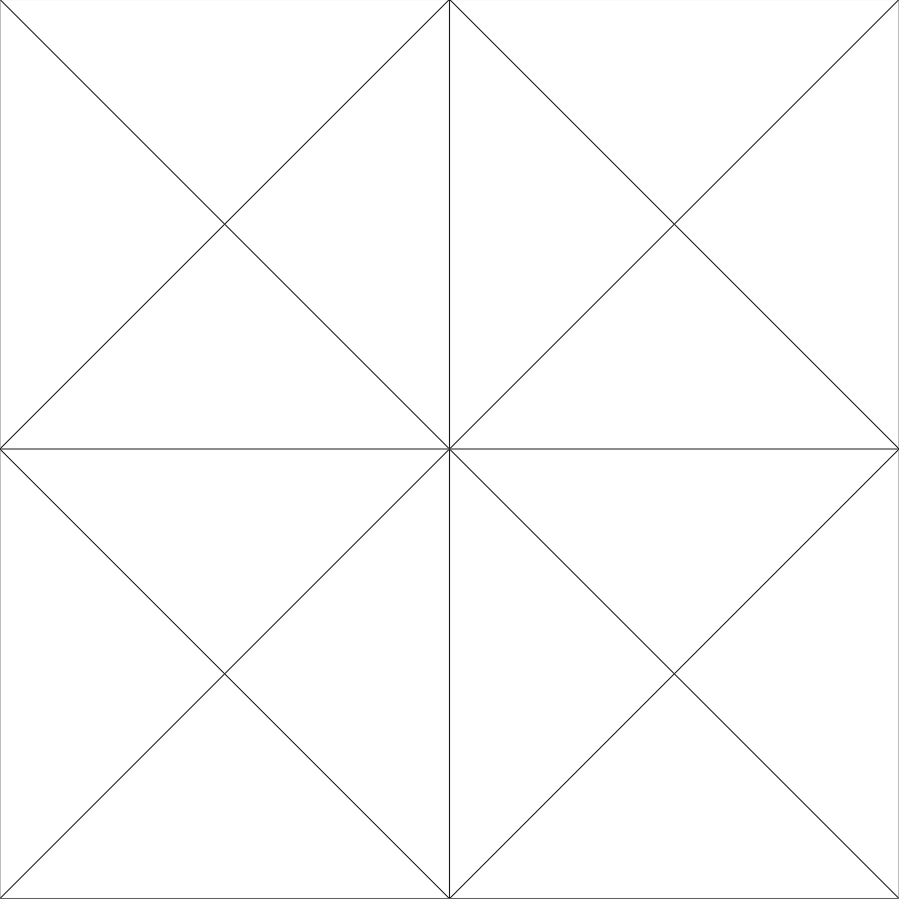
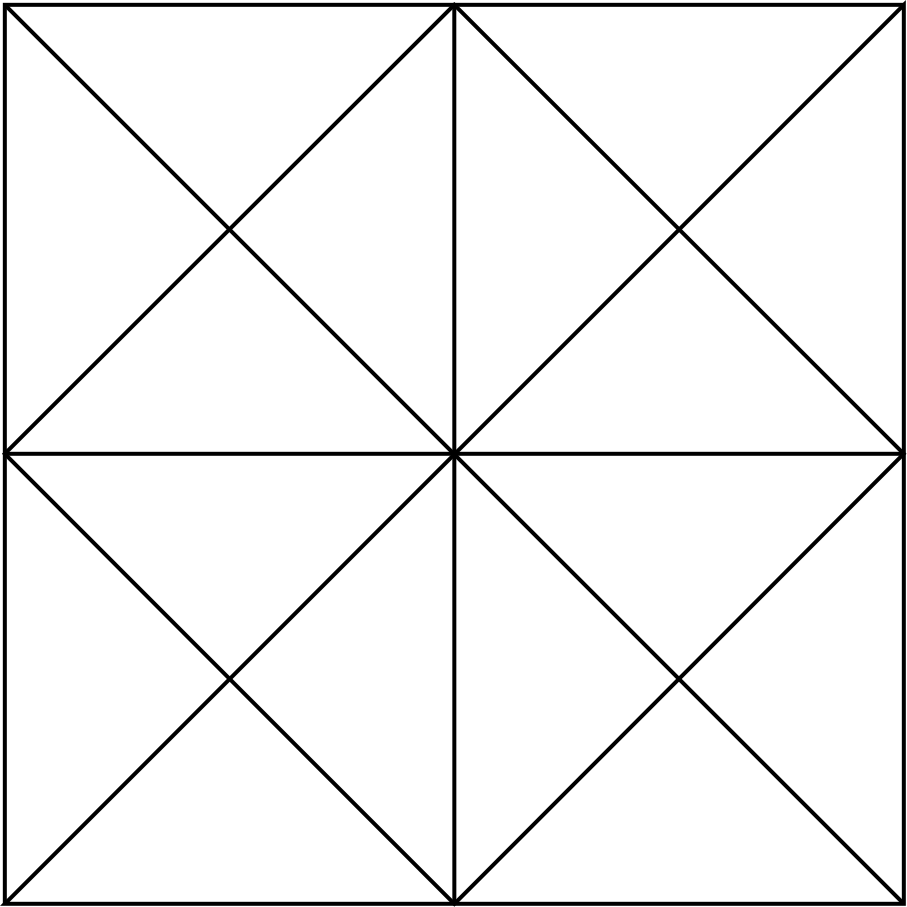
ch6 fig changes

diff --git a/chapters/6-Experiments-Evaluation.tex b/chapters/6-Experiments-Evaluation.tex
@@ -152,9 +152,7 @@ It is therefore our intuition that the trend of the ratio of faces to points app
 %
 \pagebreak
 \section{Acquired \tdd{}}
-Each of the three acquired \tdd{} examples used in our experiments, the partial model of the University of Heidelberg seal, the flat surface from ILATO, and the Stanford Bunny, were initially processed using the GigaMesh framework in order to generate function values using the Multi-Scale Integral Invariants filter, MSII~\cite{Mara12}.
-
-
+Each of the three acquired \tdd{} examples used in our experiments, the partial model of the University of Heidelberg seal, the flat surface from ILATO, and the Stanford Bunny, were initially processed with the GigaMesh framework in order to generate a scalar field of function values using the Multi-Scale Integral Invariants filter, MSII~\cite{Mara12}. Also, we experience two kinds of difficulties, error propagation and diminishing effectiveness when convolving the filter, highlighting the complexity of working with acquired \tdd{}.
 
 %
 %
@@ -167,7 +165,9 @@ Figure~\ref{fig:unisiegel} shows three views of the partial model taken from the
 
 \input{figures/latex/unisiegel.tex}
 
-There exist several holes in this \tdd{}, including the large hold in the lap of the figure, just below the center of each image. As \fors{t} convolves over every point, considering each neighborhood in isolation, the convexity of the entire mesh is inconsequential, and faces adjacent to holes are treated the same as faces adjacent to borders. Also notice the black area\ldots
+There exist several holes in this \tdd{}, including the relativly large hole in the lap of the figure, just below the center of each image. However, as \fors{t} convolves over every point, considering each neighborhood in isolation, the convexity of the entire mesh is inconsequential, and faces adjacent to holes are treated the same as faces adjacent to borders, where \wmfv{s} are averaged over the sectors of the geodesic disc which do exist.
+
+Also notice the large black area in the top left corner of (c). Due to one of the many non-manifold, irregularities of the original mesh, an error occurred when the filter attempted to divide a function value by zero-sized area, and that error then propagated to every adjacent neighborhood in every subsequent iteration. Using the "Automatic Mesh Polishing" feature in GigaMesh~\cite[p.~29-32]{Mara12}~\cite[p.7]{Giga17} before convolving the filter, completely eliminates the problem, however further modifications to \fors{t} algorithm may be necessary to ensure the overall stability of the filter.
 
 %
 %
@@ -179,7 +179,7 @@ This acquired \tdd{} is a partial model, comprised of 56,215 points and 111,311 
 Figure~\ref{fig:ILATO} shows four views of the partial model taken from ILATO sample 1a: in wireframe, colored by function values generated by applying the MSII filter, before convolving \fors{t}, colored by function value after convolving \fors{t} 1000 times, and then again after convolving the filter 3000 times.
 \input{figures/latex/ILATO.tex}
 
-As with the other acquired \tdd{}, the function values were computed by applying the MSII filter, and use the same color ramp as the other models, however, because total variance over the entire model is very small, in the range of -0.018 and 0.018, practically representing the noise characteristic of the 3D-scanner and software used to generate the mesh, the range of function values are also compressed, so smoothing does not appear to occur as rapidly as seen in other experiments.
+As with the other acquired \tdd{}, the function values were computed by applying the MSII filter and use the same color ramp as the other models, however, because total variance over the entire model is very small, in the range of -0.018 and 0.018, practically representing the noise characteristic of the 3D-scanner and software used to generate the mesh, the range of function values are also compressed, so smoothing does not appear to occur as rapidly as seen in other experiments which is expected.
 
 %
 %
@@ -190,6 +190,8 @@ The Stanford Bunny was range scanned in 1994 using a Cyberware 3030MS optical tr
 
 Figure~\ref{fig:bun} shows three views of the Stanford Bunny: in wireframe, colored by function values generated by applying the MSII filter, before convolving \fors{t}, and colored by function value after convolving \fors{t} 100 times.
 \input{figures/latex/bun.tex}
+
+In this section, we presented three examples of acquired \tdd{} and experienced some of the difficulties inherent to processing and analyzing irregular triangle meshes. Without first cleaning the mesh, we experience error propagation with the university seal, and because of the relatively small variance in the function values of the flat surface, we experience a slow down in the effectiveness of the filter. In the next section we present and evaluate the results of the multitude of experiments conducted in order to establish the performance of the parallel variant of \Fors{t} algorithm.
 
 %
 %

diff --git a/figures/latex/sq4.tex b/figures/latex/sq4.tex
@@ -18,7 +18,7 @@
 	\bigskip
 	\begin{subfigure}[b]{0.32\linewidth}
 		\includegraphics[width=\linewidth]
-		{data/synthetic_meshes/square_tesselation_4tri_Dirac_delta_10_v841_f1600_wireframe.png}
+		{data/synthetic_meshes/square_tesselation_4tri_Dirac_delta_10_v841_f1600_wireframe_2.png}
 		\caption{$r=10$, wireframe}\label{fig:sq2.d}
 	\end{subfigure}
 	\begin{subfigure}[b]{0.32\linewidth}
